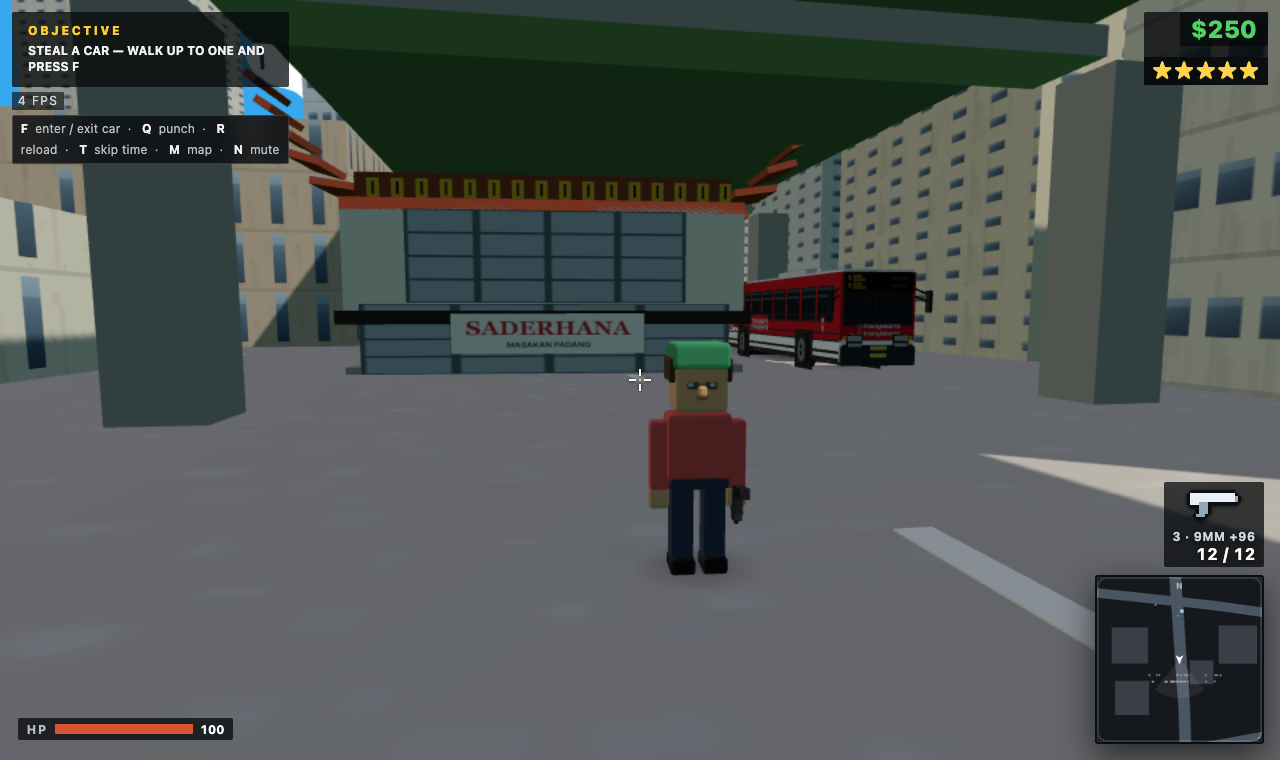
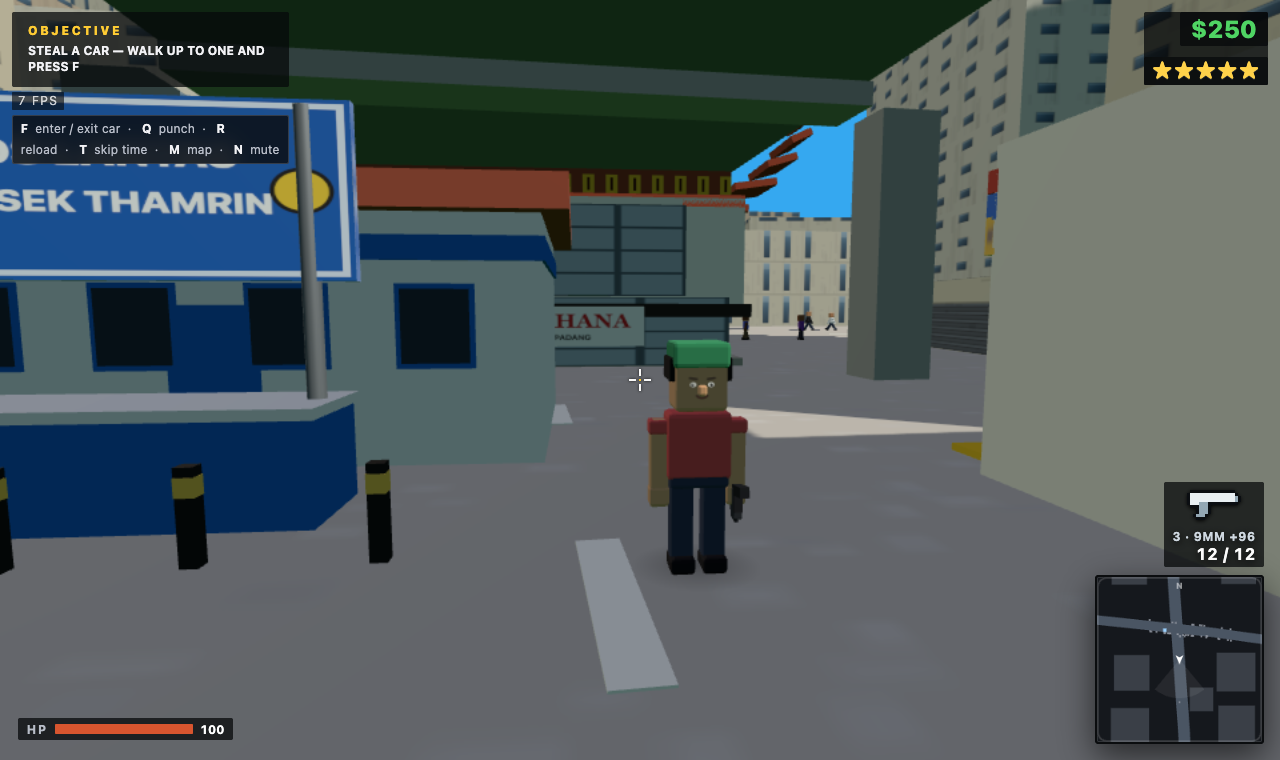
fix(world): shops stand beside the layang, not under it
The sheet hanging over the Padang was the underside of the elevated deck: two
instanced boxes 331 m long at y = 9.5, whose grey lit by the hemisphere read as
green. Both shop placements now reject any slot within 14-16 m of the deck
centreline, so the Padang and the pos polisi stand in the open.

diff --git a/src/world/city.ts b/src/world/city.ts
@@ -925,6 +925,7 @@ export class City {
     // police post beside the minimarket, on the first slot that clears every collider
     for (const [dx, dz] of [[13, 0], [17, 0], [21, 0], [-13, 0], [-17, 0], [13, 12], [13, -12], [0, 16]]) {
       const cx = sp.x + dx, cz = sp.z + 22 + dz;
+      if (this.nearLayang(cx, cz, 14)) continue;
       if (this.colliders.some((c) => cx > c.minX - 8 && cx < c.maxX + 8 && cz > c.minZ - 8 && cz < c.maxZ + 8)) continue;
       const pg = buildPosPolisi(ctx, cx, cz, 0);
       this.placeOnGround(pg, cx, cz);
@@ -940,6 +941,7 @@ export class City {
     }
     for (const [dx, dz] of ring) {
       const cx = sp.x + dx, cz = sp.z + 22 + dz;
+      if (this.nearLayang(cx, cz, 16)) continue;
       if (this.colliders.some((c) => cx > c.minX - 9 && cx < c.maxX + 9 && cz > c.minZ - 9 && cz < c.maxZ + 9)) continue;
       const rg = buildRumahPadang(ctx, cx, cz, 0);
       this.placeOnGround(rg, cx, cz);
@@ -961,8 +963,26 @@ export class City {
    * Jakarta's elevated toll: a deck running beside Thamrin on its own piers, so the skyline has a
    * second road level. Piers stand on the block edge, never in a traffic lane.
    */
+  /** the deck the layang was built on, so a shop never ends up underneath it */
+  layangSpine: [number, number][] = [];
+
+  /** true when (x, z) is within `pad` metres of the elevated deck's centreline */
+  nearLayang(x: number, z: number, pad: number): boolean {
+    for (let i = 1; i < this.layangSpine.length; i++) {
+      const [x1, z1] = this.layangSpine[i - 1];
+      const [x2, z2] = this.layangSpine[i];
+      const dx = x2 - x1, dz = z2 - z1;
+      const len2 = dx * dx + dz * dz || 1;
+      let t = ((x - x1) * dx + (z - z1) * dz) / len2;
+      t = Math.max(0, Math.min(1, t));
+      if (Math.hypot(x - (x1 + dx * t), z - (z1 + dz * t)) < pad) return true;
+    }
+    return false;
+  }
+
   buildLayangRoad() {
     const spine = ARTERIALS[0].path as [number, number][];
+    this.layangSpine = spine;
     // over the artery itself, which is where a Jakarta layang actually runs
     const shifted = spine;
     buildLayang(
